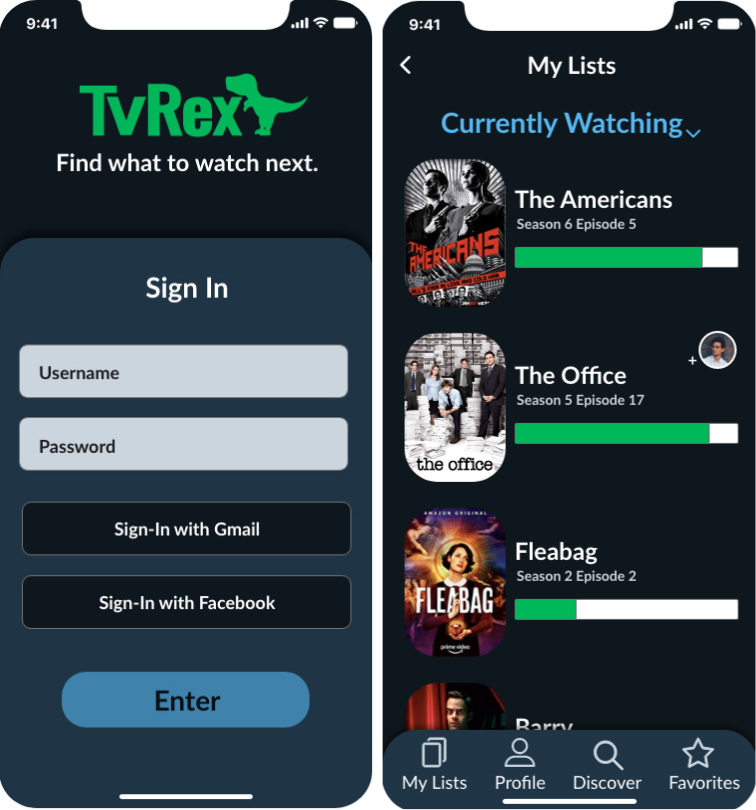
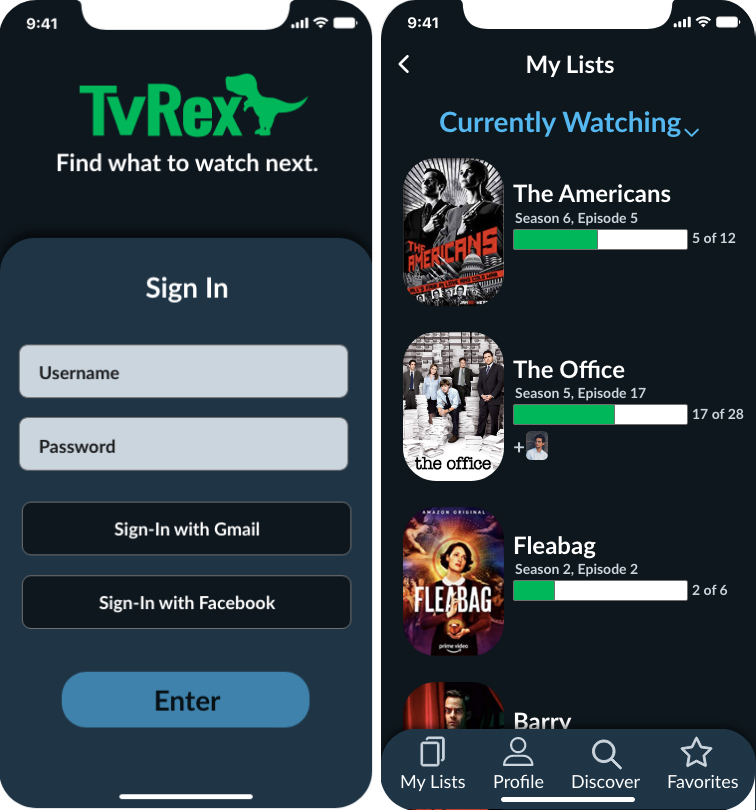
10/10 push 1

diff --git a/tvrex.html b/tvrex.html
@@ -160,6 +160,7 @@
                     </ul>
                     <a href="https://docs.google.com/document/d/1yZHRh5ge0KFvEe5UjFXuDXeZPNSirMSdueXqc4Lbxh0/edit?usp=sharing" target="_blank" class="link1"><button type="button">Full Analysis</a>
                   </div>
+    <hr>
                   <div class="intro">
                     <h3 class="space">User Personas</h3>
                     <div class="intro1">
@@ -172,6 +173,7 @@
                   </ul>
                   <!-- get new images downloaded that are the same size-->
                 </div>
+                <div>
                 <div class=personaFigma>
                       <img src="images/Adam.jpg" class="persona1" alt="User Persona of 'Adam' with various bio info">
                       <img src="images/Cindy.jpg" class="persona2" alt="User Persona of 'Cindy' with various bio info">
@@ -180,7 +182,7 @@
                     <div class="linkButton">
                     <a href="https://photos.app.goo.gl/D3LZniYgFjEGAUTZ9" target="_blank" class="link1"><button type="button">User Personas</a>
                     </div>
-                  <div class="intro">
+                  <div>
                     <h3 class="space">User Stories</h3>
                   </div>
                   <div class="intro1">
@@ -243,115 +245,145 @@
                 </section>
 
                   <hr>
+                  <section class="wireframes">
+                  <div class="intro">
+                    <h3 class="space">Wireframing</h3>
+                  </div>
+                    <div class="intro1">
+                    <p>Going from quick sketches, to lo-fi to hi-fi versions, my designs
+                       went through a lot of cycles of feedback and designing.</p>
+                     </div>
+                      <p class="lilSpace">Sketches</p>
+                      <img src="images/rexSketch.jpg" class="sketchy1" alt="A page of a notepad with sketches of screen ideas for TV Rex">
+                    </div>
+                      <p class="lilSpace">LoFi</p>
+                      <div class="fiBox">
+                      <img src="images/rexLo3.png" class="lofi1" alt="LoFi screen of the homepage">
+                      <img src="images/rexLo1.png" class="lofi2" alt="LoFi screen of your watch list">
+                      <img src="images/rexLo2.png" class="lofi3" alt="LoFi screen of a title view">
+                      <img src="images/rexLo5.png" class="lofi4" alt="LoFi screen of recommended shows">
+                      <img src="images/rexLo4.png" class="lofi5" alt="LoFi screen of a profile">
+                      <!-- maybe link to all of the lofi screens-->
+                    </div>
+                  </section>
+                  <section class="design">
+                    <div class="intro">
+                      <h3 class="space">Branding: Name, Logo & Color Palette</h3>
+                    </div>
+                    <div class="intro1">
+                      <p>I wanted the name to tie into the app's idea. In the end, I chose TV Rex which is short for TV Recommendations.
+                        It really leant itself to a playful logo of a T-Rex's silhouette. The color palette came quickly as I knew I wanted
+                        this to have a dark theme and wanted to tie in some earthy tones to tie in the T-Rex of TV Rex as well.</p>
+                      </div>
+                      <div class="jokerBrand">
+                    <!-- branding images -->
+                        <img src="images/frame5.png" class="brand1" alt="Vector sketches of the TV Rex logo and ideas">
+                        <img src="images/frame6.png" class="brand2" alt="Various versions of the Gather logo">
+                        <!-- update branding guidelines-->
+                      </div>
+                        <a href="https://xd.adobe.com/view/96ef0cc9-37e8-4139-5a15-1c136168e5d9-e0de/" target="_blank" class="designLink"><button type="button">Branding Guidelines</a>
+                  </section>
+
+                  <section class="wireframes">
+                  <div class="intro">
+                    <h3 class="space">Mockups</h3>
+                  </div>
+                    <div class="intro1">
+                    <p>Taking my sketches and LoFi designs, I applied the branding and iOS specs to create my HiFi mockups.</p>
+                      <p class="lilSpace">HiFi</p>
+                      <div class="fiBox">
+                      <img src="images/mobile/rexHi2.jpg" class="hifi1" alt="HiFi screen of the homepage">
+                      <img src="images/mobile/rexHi7.png" class="hifi2" alt="HiFi screen of adding a link">
+                      <img src="images/mobile/rexHi1.jpg" class="hifi3" alt="HiFi screen of saving an item into a folder">
+                      <img src="images/mobile/rexHi3.jpg" class="hifi4" alt="HiFi screen of sharing an item">
+                      <img src="images/mobile/rexHi6.png" class="hifi5" alt="HiFi screen of a profile view">
+                      <!-- maybe link to all of the hifi screens-->
+                    </div>
+                  </section>
+  <hr>
 
                   <section class="testing">
                     <div class="intro">
-                      <h3 class="space">Testing</h3>
+                      <h3 class="space">Prototype Testing</h3>
                     </div>
                     <div class="intro1">
-                      <p>I tested my low and high fidelity prototypes to six users, all garnering
-                         information that helped me further my designs. Through this User Testing, Preference Testing and
-                          Grader Feedback, rounds of changes were made.</p>
+                      <p>I tested my high fidelity prototype to three users, which helped me to further improve my designs. Overall, the testing went really well and the users were happy with the designs. Here are some suggestions they had to improve the app:</p>
                         <div class="introlist">
                         <ul style="list-style-type:circle;">
-                          <li>Removing unnecessary text</li>
-                          <li>Adding more options to share</li>
-                          <li>Eliminating a search bar on each screen</li>
-                          <li>Not having the full logo/app name on each screen</li>
-                          <li>Overall logo design</li>
-                          <li>Adding a full logo instead of just a simple “g”</li>
-                          <li>Avoiding the use of coral text and using green, black or grey</li>
+                          <li>Make it clear (maybe label) the green bar on the “currently watching” view so it says if it’s referring to your progress for that season or for the entire series.</li>
+                          <li>Fix the location of the icon to indicate you’re watching with someone and maybe make it a small icon of their profile image instead.</li>
+                          <li>Change “recommend” to something else - “Do you like this show?” “Do you want to favorite this show?” or “Is this a show you’re enjoying?”</li>
+                          <li>Add some clarification to what “recommending a show” would do - improve your recommendation algorithm as well as give your friends ideas as to what to watch.</li>
+                          <li>Change one of the star icons, either the IMDB one or the recommendations one.</li>
                         </ul>
                       </div>
-                        <p>Three preference tests were also conducted to help answer some
-                           detailed design questions that naturally arose through the design process.</p>
-                    </div>
-                    <div class ="testingBox">
-                      <!-- can also crop so that the preference question is not in the image and instead in text-->
-                      <img src="images/test1.png" class="preference1" alt="Preference test of a selected contact">
-                      <img src="images/test3.png" class="preference2" alt="Preference test of content alignment">
-                      <img src="images/test2.png" class="preference3" alt="Preference test of logo designs">
-                    </div>
-                          <a href="https://app.usabilityhub.com/do/c2c3f1e64ac4/14a8" target="_blank" class="link1"><button type="button">Selection Preference Test</a><br>
-                          <a href="https://app.usabilityhub.com/do/bff4feb5b3a0/c0be" target="_blank" class="link1"><button type="button">Logo Preference Test</a><br>
-                          <a href="https://app.usabilityhub.com/do/c2c3f1e64ac4/14a8" target="_blank" class="link1"><button type="button">Alignment Preference Test</a>
-                      </section>
-
-                      <hr>
-
-                      <section class="wireframes">
                       <div class="intro">
-                        <h3 class="space">Wireframing</h3>
-                      </div>
-                        <div class="intro1">
-                        <p>Going from quick sketches, to lo-fi to hi-fi versions, my designs
-                           went through a lot of cycles of feedback and designing.</p>
-                         </div>
-                          <p class="lilSpace">Sketches</p>
-                          <div class="sketchBox">
-                          <img src="images/sketch/sketchScreens1.jpg" class="sketchy1" alt="A page of a notepad with sketches of screen ideas">
-                          <img src="images/sketch/sketchScreens4.jpg" class="sketchy2" alt="A second page of a notepad with sketches of screen ideas">
-                        </div>
-                          <p class="lilSpace">LoFi</p>
-                          <div class="fiBox">
-                          <img src="images/mobile/Home.png" class="lofi1" alt="LoFi screen of the homepage">
-                          <img src="images/mobile/details.png" class="lofi2" alt="LoFi screen of the item details">
-                          <img src="images/mobile/link.png" class="lofi3" alt="LoFi screen of adding an item with a link">
-                          <img src="images/mobile/folder.png" class="lofi4" alt="LoFi screen of saving an item into a folder">
-                          <img src="images/mobile/success.png" class="lofi5" alt="LoFi success screen when saving an item">
-                          <!-- maybe link to all of the lofi screens-->
-                        </div>
-                          <p class="lilSpace">HiFi</p>
-                          <div class="fiBox">
-                          <img src="images/mobile/signup.jpg" class="hifi1" alt="HiFi screen of the homepage">
-                          <img src="images/mobile/addlink.jpg" class="hifi2" alt="HiFi screen of adding a link">
-                          <img src="images/mobile/save.jpg" class="hifi3" alt="HiFi screen of saving an item into a folder">
-                          <img src="images/mobile/send.jpg" class="hifi4" alt="HiFi screen of sharing an item">
-                          <img src="images/mobile/folders.jpg" class="hifi5" alt="HiFi screen of a profile view">
-                          <!-- maybe link to all of the hifi screens-->
-                        </div>
-                      </section>
-<hr>
+                        <h3 class="space">Preference Testing</h3>
+                      </div>                        <p>I conducted four preference tests to test some of the above user feedback and design decisions to come to the most intuitive conclusions.
+                          Though two of the tests confirmed my original design, the other two caused changes to my prototype, to better adhere to user's wants.</p>
+                          <div class="introlist">
+                          <ul style="list-style-type:circle;">
+                            <li>The first preference test was to determine whether or not I should keep the top section of my app (that contains the nav bar and search bar) as two colors, or switch over to one. Not all screens have a search bar, so I had originally designed it with two colors so that every screen would consistently have the same color nav bar.</li>
+                            <div class="centerit">
+                                <img src="images/rexPref1.png" alt="image of a preference test, testing the colors of the top nav bar" class="rexImg">
+                            </div>
+                            <div class="lefty">
+                              <a href="https://app.usabilityhub.com/do/8521f9fed300/9a55" target="_blank" class="below"><button type="button">Preference Test 1</a>
+                            </div>
+                            <li class="mtop">For the second test, I wanted to know what wording made the most sense for my rating/favorites. Originally, I had it asking users “Would you recommend this show?” and if they hit “yes,” their friends would know that they’d recommend it and their algorithm of what shows are recommended to them would improve. I wasn’t sure if I should word it this way, or call it their “starred” shows or “favorite” shows.</li>
+                            <div class="centerit">
+                                <img src="images/rexPref2.png" alt="image of a preference test, testing the wording of recommendations" class="rexImg">
+                            </div>
+                            <div class="lefty">
+                              <a href="https://app.usabilityhub.com/do/8521f9fed300/9a55" target="_blank" class="below"><button type="button">Preference Test 2</a>
+                            </div>
+                            <li class="mtop">On the main screen of my app, it shows the shows you are watching, along with a progress bar. Originally, I’d designed it to display your progress for the whole series, but during User Testing, realized that it was confusing as to whether it was for the series or the season. So I decided to test it with the third preference test.</li>
+                            <div class="centerit">
+                                <img src="images/rexPref3.png" alt="image of a preference test, testing the progress bar" class="rexImg">
+                            </div>
+                            <div class="lefty">
+                              <a href="https://app.usabilityhub.com/do/f3f6c825f616/ca7a" target="_blank" class="below"><button type="button">Preference Test 3</a>
+                            </div>
+                            <li class="mtop">On the main screen of my app, it shows the shows you are watching, along with a progress bar. Originally, I’d designed it to display your progress for the whole series, but during User Testing, realized that it was confusing as to whether it was for the series or the season. So I decided to test it with the third preference test.</li>
+                            <div class="centerit">
+                                <img src="images/rexPref4.png" alt="image of a preference test, testing the labeling of the progress bar" class="rexImg">
+                            </div>
+                            <div class="lefty">
+                              <a href="https://app.usabilityhub.com/do/5188a31c3e3f/478e" target="_blank" class="below"><button type="button">Preference Test 4</a>
+                            </div>
 
-                        <section class="design">
-                          <div class="intro">
-                            <h3 class="space">Branding: Name, Logo & Color Palette</h3>
                           </div>
-                          <div class="intro1">
-                            <p>I wanted to create a place for both people and content to gather, connect
-                              and intertwine, which is how the name, “Gather” came to be. The logos and color palette came
-                              naturally as soon as I had the brand philosophy in mind.</p>
-                            </div>
-                            <div class="designBox">
-                          <!-- branding images -->
-                              <img src="images/moodboard.png" class="branding1" alt="A collection of images that create a mood board">
-                              <img src="images/logos.png" class="branding2" alt="Various versions of the Gather logo">
-                              <img src="images/colors.png" class="branding3" alt="The color palette for Gather">
-                              <!-- update branding guidelines-->
-                            </div>
-                              <a href="https://www.figma.com/file/rHIGTYcjwZDXbKTaymKSwd/Gather-Branding?node-id=1767%3A2547" target="_blank" class="designLink"><button type="button">Branding Guidelines</a>
-                        </section>
+                      </section>
 
-                                              <hr>
+  <hr>
 
                         <section class="iterations">
                           <div class="intro">
                           <h3 class="space">Iterations</h3>
                         </div>
                         <div class="intro1">
-                          <p>From all the gathered insight and feedback, I was able to go from my initial wireframe
-                             sketches to my final hi-fi screens (and prototypes).</p>
-                             <div class="iterationBox">
-                               <img src="images/sketch/sketchIter1.jpg" class="iter1" alt="Sketch of a screen for Gather">
-                               <img src="images/mobile/share.png" class="iter2" alt="Lofi version of a screen for Gather">
-                               <img src="images/mobile/send.jpg" class="iter3" alt="Hifi version of a screen for Gather">
-                               <img src="images/web/share.jpg" class="iter4" alt="Web hifi version of a screen for Gather">
-                            </div>
-                            <div class="iterationBox">
-                              <img src="images/sketch/sketchIter2.jpg" class="iter1" alt="Sketch of a screen for Gather">
-                              <img src="images/mobile/link.png" class="iter2" alt="Lofi version of a screen for Gather">
-                              <img src="images/mobile/addlink.jpg" class="iter3" alt="Hifi version of a screen for Gather">
-                              <img src="images/web/link.jpg" class="iter4" alt="Web hifi version of a screen for Gather">
+                          <p>From all the gathered insight and feedback from the above tests and grader feedback, my screens went through several iterations.</p>
+                             <p class="lilSpace">Main Screen</p>
+                             <div class="fiBox">
+                             <img src="images/mobile/rexIt2.jpg" class="hifi1" alt="HiFi screen of the homepage">
+                             <img src="images/mobile/rexIt1.jpg" class="hifi2" alt="HiFi screen of adding a link">
+                             <img src="images/mobile/rexIt4.jpg" class="hifi3" alt="HiFi screen of saving an item into a folder">
+                             <img src="images/mobile/rexIt3.jpg" class="hifi4" alt="HiFi screen of sharing an item">
+                             <img src="images/mobile/rexHi7.png" class="hifi5" alt="HiFi screen of a profile view">
+                           </div>
+                             <div class="introlist">
+                               <p>Changes made:</p>
+                             <ul style="list-style-type:circle;">
+                               <li>Removed grey boxes so that it better adhered to iOS specs for lists.</li>
+                               <li>Added a nav bar at the top to adhere to iOS specs.</li>
+                               <li>Changed the color of “Currently Watching” to add contrast.</li>
+                               <li>Added the iPhone X template to show where the screen is cut.</li>
+                               <li>Allowed more space for the TV show title and made the progress bar wider.</li>
+                               <li>Added clarification text “series progress” for progress bar.</li>
+                               <li>Changed the icon to a person’s profile picture for when you’re watching with a friend.</li>
+                             </ul>
+                           </div>
+                             <!-- maybe link to all of the hifi screens-->
                            </div>
                          </div>
                       </section>
@@ -364,15 +396,15 @@
                         </div>
                         <div class="introlist">
                             <ul style="list-style-type:circle;">
-                              <li class="points">Designing for both desktop and mobile while maintaining proportional spacing and congruence</li>
-                              <li class="points">Creating a logo from rough sketches to vector files</li>
-                              <li class="points">Being able to take a project from start to finish, utilizing all UX steps</li>
-                              <li class="points">Not all feedback is as helpful as others, so it’s important to survey and test as many people as possible</li>
+                              <li class="points">I learned how to create a color palette for a dark theme.</li>
+                              <li class="points">I became proficient in Adobe XD, utilizing components, prototyping and repeat patterns.</li>
+                              <li class="points">Utilizing research and testing throughout the entire process will create better designs.</li>
+                              <li class="points">I studied key differences between designing for Android and for iOS (alert boxes, list appearance and nav bar, etc).</li>
+                              <li class="points">By starting to write the case study at the beginning of my project, it allowed me to remember my steps and decisions now that I'm at the end.</li>
                             </ul>
                             <div class="centerit">
                             <div class="finalProto">
-                              <a href="https://www.figma.com/proto/7Z22mOjlwbXQZljf6BdJFZ/Pixel2-Gather?node-id=239%3A2485&scaling=scale-down" target="_blank" class="proto1"><button type="button">App Prototype</a>
-                              <a href="https://www.figma.com/proto/NlNOQ0sMESDcm1ENh6yiMp/Gather-Desktop-Final?node-id=277%3A5284&scaling=min-zoom" target="_blank" class="proto1"><button type="button">Web Prototype</a>
+                              <a href="https://xd.adobe.com/view/262634c1-a99b-4eb9-4cd5-3379ca22396b-5017/" target="_blank"><button type="button">App Prototype</a>
                           </div>
                         </div>
                         </section>

diff --git a/styles/styles2.css b/styles/styles2.css
@@ -862,6 +862,14 @@ max-width: 40%;
 text-align: center;
 }
 
+.half {
+  display: flex;
+}
+
+.mtop {
+  margin-top: 40px;
+}
+
 /* UNIVERSAL */
 
 .fixedfoot {
